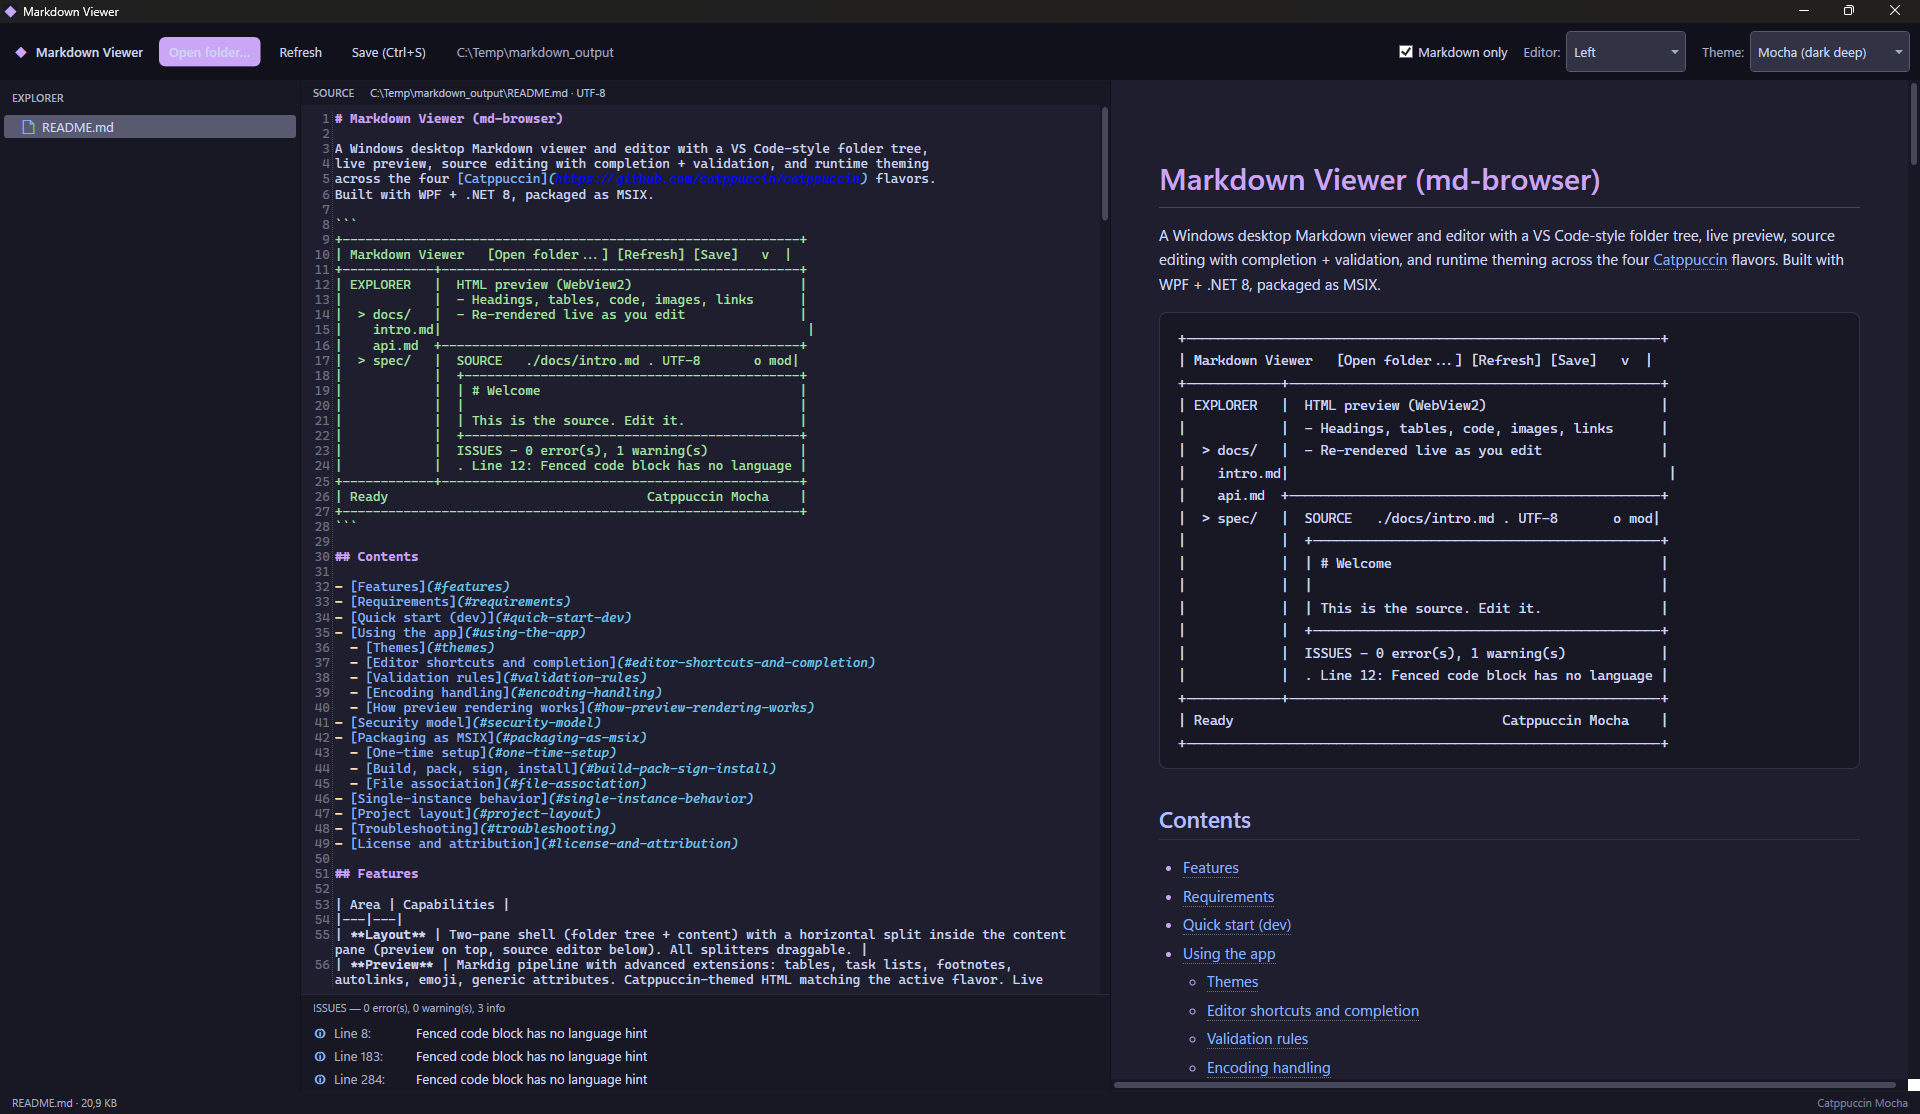
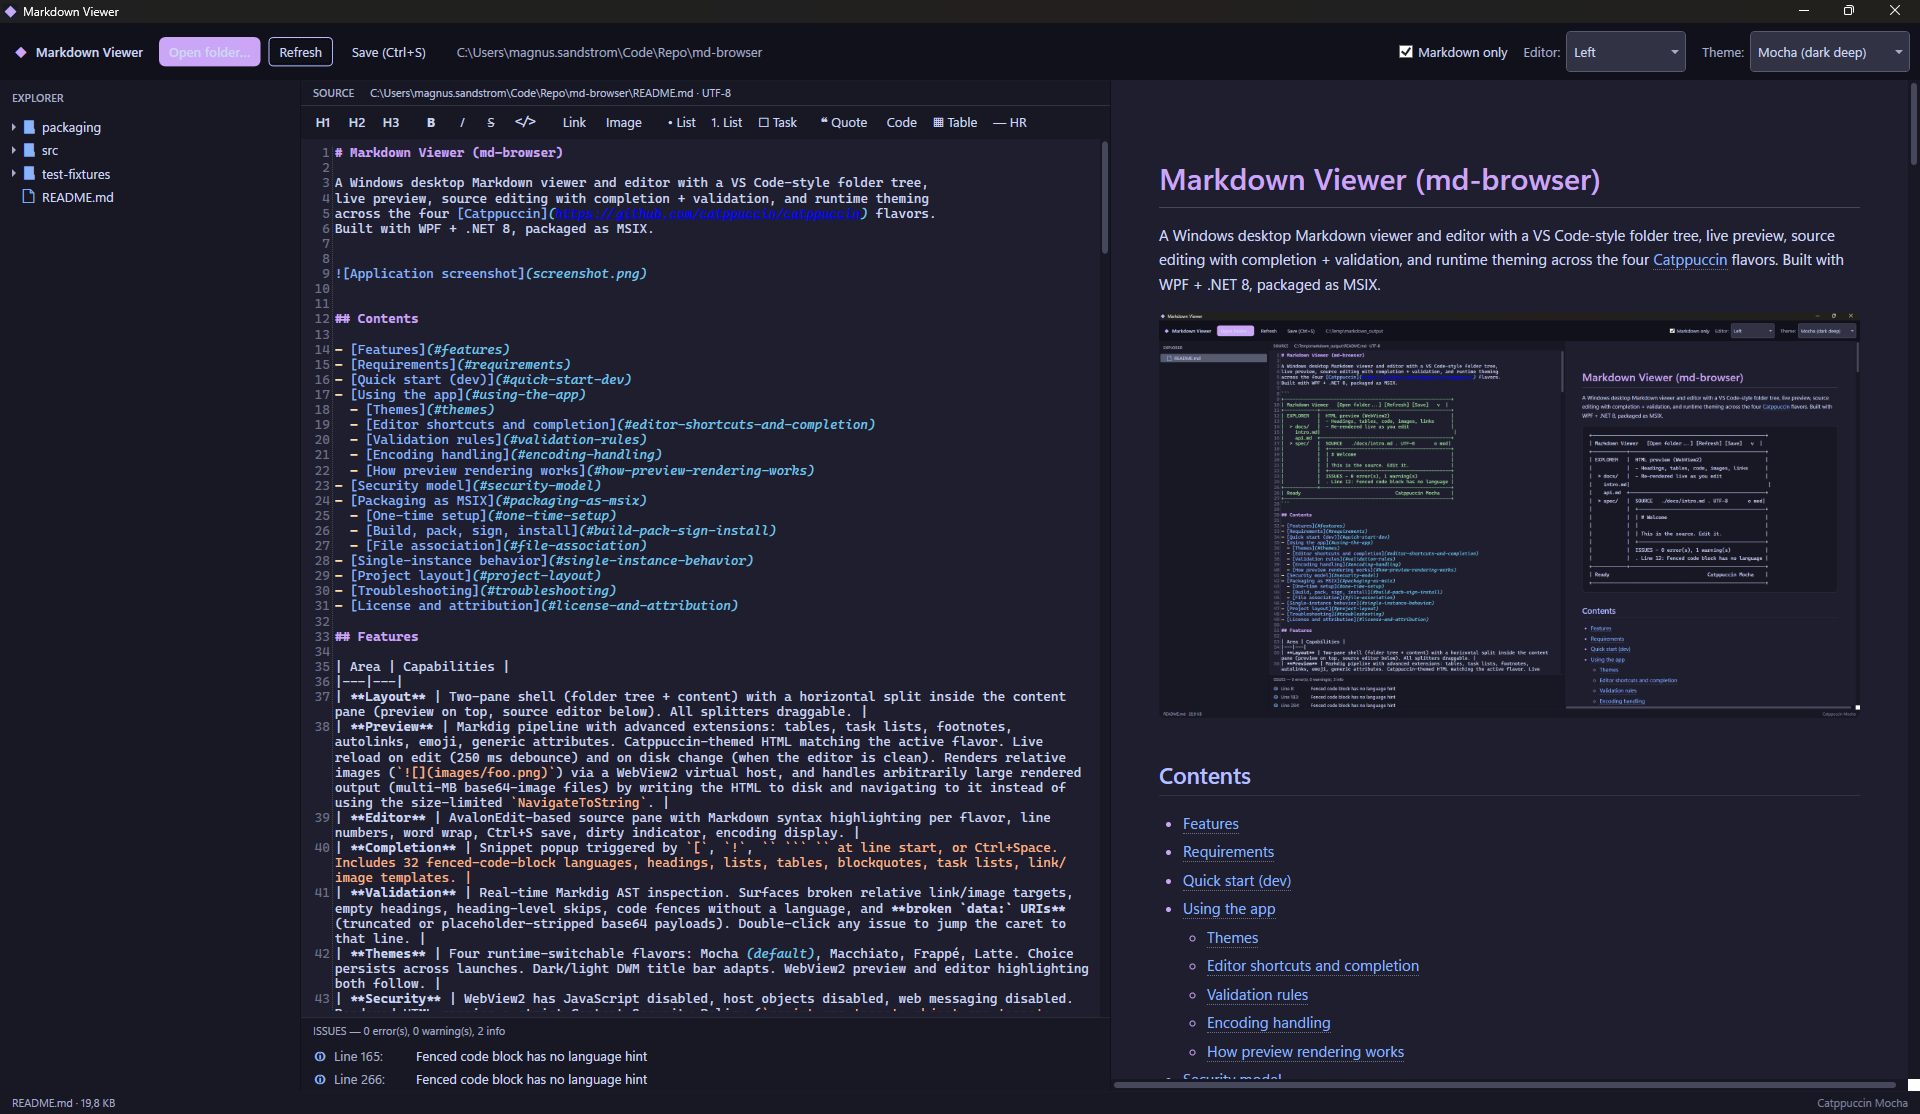
20260612

diff --git a/src/MdBrowser/MainWindow.xaml b/src/MdBrowser/MainWindow.xaml
@@ -216,6 +216,90 @@
                         </Grid>
                     </Border>
 
+                    <!-- Markdown formatting toolbar -->
+                    <Border DockPanel.Dock="Top"
+                            Background="{DynamicResource CtpMantle}"
+                            BorderBrush="{DynamicResource CtpSurface0}"
+                            BorderThickness="0,1,0,0"
+                            Padding="6,4">
+                        <WrapPanel x:Name="EditorToolbar"
+                                   IsEnabled="{Binding ElementName=Editor, Path=IsEnabled}">
+                            <!-- Headings -->
+                            <Button Style="{StaticResource ToolbarButton}" Padding="6,2" MinWidth="32" Margin="0,0,2,2"
+                                    Click="MdBtn_Heading1_Click" ToolTip="Heading 1">
+                                <TextBlock Text="H1" FontWeight="SemiBold"/>
+                            </Button>
+                            <Button Style="{StaticResource ToolbarButton}" Padding="6,2" MinWidth="32" Margin="0,0,2,2"
+                                    Click="MdBtn_Heading2_Click" ToolTip="Heading 2">
+                                <TextBlock Text="H2" FontWeight="SemiBold"/>
+                            </Button>
+                            <Button Style="{StaticResource ToolbarButton}" Padding="6,2" MinWidth="32" Margin="0,0,10,2"
+                                    Click="MdBtn_Heading3_Click" ToolTip="Heading 3">
+                                <TextBlock Text="H3" FontWeight="SemiBold"/>
+                            </Button>
+
+                            <!-- Inline formatting -->
+                            <Button Style="{StaticResource ToolbarButton}" Padding="8,2" MinWidth="28" Margin="0,0,2,2"
+                                    Click="MdBtn_Bold_Click" ToolTip="Bold (Ctrl+B)">
+                                <TextBlock Text="B" FontWeight="Bold"/>
+                            </Button>
+                            <Button Style="{StaticResource ToolbarButton}" Padding="8,2" MinWidth="28" Margin="0,0,2,2"
+                                    Click="MdBtn_Italic_Click" ToolTip="Italic (Ctrl+I)">
+                                <TextBlock Text="I" FontStyle="Italic"/>
+                            </Button>
+                            <Button Style="{StaticResource ToolbarButton}" Padding="8,2" MinWidth="28" Margin="0,0,2,2"
+                                    Click="MdBtn_Strike_Click" ToolTip="Strikethrough">
+                                <TextBlock Text="S" TextDecorations="Strikethrough"/>
+                            </Button>
+                            <Button Style="{StaticResource ToolbarButton}" Padding="6,2" MinWidth="32" Margin="0,0,10,2"
+                                    Click="MdBtn_InlineCode_Click" ToolTip="Inline code">
+                                <TextBlock Text="&lt;/&gt;" FontFamily="Cascadia Code, Consolas"/>
+                            </Button>
+
+                            <!-- Links / images -->
+                            <Button Style="{StaticResource ToolbarButton}" Padding="8,2" Margin="0,0,2,2"
+                                    Click="MdBtn_Link_Click" ToolTip="Insert link (Ctrl+K)">
+                                <TextBlock Text="Link"/>
+                            </Button>
+                            <Button Style="{StaticResource ToolbarButton}" Padding="8,2" Margin="0,0,10,2"
+                                    Click="MdBtn_Image_Click" ToolTip="Insert image…">
+                                <TextBlock Text="Image"/>
+                            </Button>
+
+                            <!-- Lists -->
+                            <Button Style="{StaticResource ToolbarButton}" Padding="6,2" Margin="0,0,2,2"
+                                    Click="MdBtn_BulletList_Click" ToolTip="Bullet list">
+                                <TextBlock Text="• List"/>
+                            </Button>
+                            <Button Style="{StaticResource ToolbarButton}" Padding="6,2" Margin="0,0,2,2"
+                                    Click="MdBtn_NumberedList_Click" ToolTip="Numbered list">
+                                <TextBlock Text="1. List"/>
+                            </Button>
+                            <Button Style="{StaticResource ToolbarButton}" Padding="6,2" Margin="0,0,10,2"
+                                    Click="MdBtn_TaskList_Click" ToolTip="Task list">
+                                <TextBlock Text="☐ Task"/>
+                            </Button>
+
+                            <!-- Blocks -->
+                            <Button Style="{StaticResource ToolbarButton}" Padding="6,2" Margin="0,0,2,2"
+                                    Click="MdBtn_Quote_Click" ToolTip="Block quote">
+                                <TextBlock Text="❝ Quote"/>
+                            </Button>
+                            <Button Style="{StaticResource ToolbarButton}" Padding="6,2" Margin="0,0,2,2"
+                                    Click="MdBtn_CodeBlock_Click" ToolTip="Fenced code block">
+                                <TextBlock Text="{} Code"/>
+                            </Button>
+                            <Button Style="{StaticResource ToolbarButton}" Padding="6,2" Margin="0,0,2,2"
+                                    Click="MdBtn_Table_Click" ToolTip="Insert table">
+                                <TextBlock Text="▦ Table"/>
+                            </Button>
+                            <Button Style="{StaticResource ToolbarButton}" Padding="6,2" Margin="0,0,2,2"
+                                    Click="MdBtn_HorizontalRule_Click" ToolTip="Horizontal rule">
+                                <TextBlock Text="— HR"/>
+                            </Button>
+                        </WrapPanel>
+                    </Border>
+
                     <!-- Issues panel (bottom) -->
                     <Border DockPanel.Dock="Bottom"
                             Background="{DynamicResource CtpMantle}"

diff --git a/src/MdBrowser/MainWindow.xaml.cs b/src/MdBrowser/MainWindow.xaml.cs
@@ -860,6 +860,243 @@ public partial class MainWindow : Window
         Editor.Focus();
     }
 
+    // ============== Markdown formatting toolbar ==============
+
+    private void MdBtn_Heading1_Click(object sender, RoutedEventArgs e) => SetCurrentLineHeading(1);
+    private void MdBtn_Heading2_Click(object sender, RoutedEventArgs e) => SetCurrentLineHeading(2);
+    private void MdBtn_Heading3_Click(object sender, RoutedEventArgs e) => SetCurrentLineHeading(3);
+    private void MdBtn_Bold_Click(object sender, RoutedEventArgs e) => WrapSelection("**", "**", "bold text");
+    private void MdBtn_Italic_Click(object sender, RoutedEventArgs e) => WrapSelection("*", "*", "italic text");
+    private void MdBtn_Strike_Click(object sender, RoutedEventArgs e) => WrapSelection("~~", "~~", "strikethrough");
+    private void MdBtn_InlineCode_Click(object sender, RoutedEventArgs e) => WrapSelection("`", "`", "code");
+    private void MdBtn_Link_Click(object sender, RoutedEventArgs e) => InsertLink();
+    private void MdBtn_Image_Click(object sender, RoutedEventArgs e) => InsertImage();
+    private void MdBtn_BulletList_Click(object sender, RoutedEventArgs e) => PrefixSelectedLines("- ");
+    private void MdBtn_NumberedList_Click(object sender, RoutedEventArgs e) => NumberSelectedLines();
+    private void MdBtn_TaskList_Click(object sender, RoutedEventArgs e) => PrefixSelectedLines("- [ ] ");
+    private void MdBtn_Quote_Click(object sender, RoutedEventArgs e) => PrefixSelectedLines("> ");
+    private void MdBtn_CodeBlock_Click(object sender, RoutedEventArgs e) => InsertCodeBlock();
+    private void MdBtn_Table_Click(object sender, RoutedEventArgs e) => InsertTable();
+    private void MdBtn_HorizontalRule_Click(object sender, RoutedEventArgs e) => InsertBlock("---");
+
+    private void WrapSelection(string prefix, string suffix, string placeholder)
+    {
+        if (!Editor.IsEnabled) return;
+        var doc = Editor.Document;
+        if (Editor.SelectionLength > 0)
+        {
+            var start = Editor.SelectionStart;
+            var len = Editor.SelectionLength;
+            var text = doc.GetText(start, len);
+            doc.Replace(start, len, prefix + text + suffix);
+            Editor.Select(start + prefix.Length, len);
+        }
+        else
+        {
+            var caret = Editor.CaretOffset;
+            doc.Insert(caret, prefix + placeholder + suffix);
+            Editor.Select(caret + prefix.Length, placeholder.Length);
+        }
+        Editor.Focus();
+    }
+
+    private void SetCurrentLineHeading(int level)
+    {
+        if (!Editor.IsEnabled) return;
+        var doc = Editor.Document;
+        var line = doc.GetLineByOffset(Editor.CaretOffset);
+        var lineText = doc.GetText(line);
+        // Strip any existing leading '#' run + one optional space - acts as a toggle/replace.
+        var trimmed = lineText.TrimStart('#');
+        if (trimmed.StartsWith(' ')) trimmed = trimmed[1..];
+        var prefix = new string('#', level) + " ";
+        doc.Replace(line.Offset, line.Length, prefix + trimmed);
+        Editor.CaretOffset = line.Offset + prefix.Length + trimmed.Length;
+        Editor.Focus();
+    }
+
+    private void PrefixSelectedLines(string prefix)
+    {
+        if (!Editor.IsEnabled) return;
+        var doc = Editor.Document;
+        var (startLine, endLine) = GetSelectedLineRange();
+        using (doc.RunUpdate())
+        {
+            for (int i = startLine; i <= endLine; i++)
+            {
+                var line = doc.GetLineByNumber(i);
+                doc.Insert(line.Offset, prefix);
+            }
+        }
+        Editor.Focus();
+    }
+
+    private void NumberSelectedLines()
+    {
+        if (!Editor.IsEnabled) return;
+        var doc = Editor.Document;
+        var (startLine, endLine) = GetSelectedLineRange();
+        using (doc.RunUpdate())
+        {
+            int n = 1;
+            for (int i = startLine; i <= endLine; i++)
+            {
+                var line = doc.GetLineByNumber(i);
+                doc.Insert(line.Offset, $"{n}. ");
+                n++;
+            }
+        }
+        Editor.Focus();
+    }
+
+    private (int startLine, int endLine) GetSelectedLineRange()
+    {
+        var doc = Editor.Document;
+        if (Editor.SelectionLength > 0)
+        {
+            var s = doc.GetLineByOffset(Editor.SelectionStart).LineNumber;
+            var e = doc.GetLineByOffset(Editor.SelectionStart + Editor.SelectionLength).LineNumber;
+            return (s, e);
+        }
+        var current = doc.GetLineByOffset(Editor.CaretOffset).LineNumber;
+        return (current, current);
+    }
+
+    private void InsertLink()
+    {
+        if (!Editor.IsEnabled) return;
+        var doc = Editor.Document;
+        var selText = Editor.SelectedText ?? string.Empty;
+        var selectionLooksLikeUrl =
+            selText.StartsWith("http://", StringComparison.OrdinalIgnoreCase) ||
+            selText.StartsWith("https://", StringComparison.OrdinalIgnoreCase);
+
+        string textPart, urlPart;
+        if (selectionLooksLikeUrl) { textPart = "link text"; urlPart = selText; }
+        else if (!string.IsNullOrEmpty(selText)) { textPart = selText; urlPart = "https://"; }
+        else { textPart = "link text"; urlPart = "https://"; }
+
+        var snippet = $"[{textPart}]({urlPart})";
+        int insertAt;
+        if (Editor.SelectionLength > 0)
+        {
+            insertAt = Editor.SelectionStart;
+            doc.Replace(insertAt, Editor.SelectionLength, snippet);
+        }
+        else
+        {
+            insertAt = Editor.CaretOffset;
+            doc.Insert(insertAt, snippet);
+        }
+
+        // Select whichever part the user is most likely to edit next.
+        if (selectionLooksLikeUrl)
+        {
+            Editor.Select(insertAt + 1, textPart.Length); // text part
+        }
+        else if (!string.IsNullOrEmpty(selText))
+        {
+            var urlStart = insertAt + 1 + textPart.Length + 2; // skip "[text]("
+            Editor.Select(urlStart, urlPart.Length);
+        }
+        else
+        {
+            Editor.Select(insertAt + 1, textPart.Length);
+        }
+        Editor.Focus();
+    }
+
+    private void InsertImage()
+    {
+        if (!Editor.IsEnabled) return;
+        var dlg = new OpenFileDialog
+        {
+            Title = "Insert image",
+            Filter = "Image files|*.png;*.jpg;*.jpeg;*.gif;*.webp;*.svg;*.bmp|All files|*.*",
+            Multiselect = false
+        };
+        if (_currentFile is not null)
+        {
+            var dir = Path.GetDirectoryName(_currentFile);
+            if (!string.IsNullOrEmpty(dir)) dlg.InitialDirectory = dir;
+        }
+        if (dlg.ShowDialog(this) != true) return;
+        var picked = dlg.FileName;
+
+        // Prefer a path relative to the current markdown file so the link survives a move.
+        string href = picked;
+        var srcDir = _currentFile is not null ? Path.GetDirectoryName(_currentFile) : null;
+        if (!string.IsNullOrEmpty(srcDir))
+        {
+            try
+            {
+                href = Path.GetRelativePath(srcDir, picked).Replace(Path.DirectorySeparatorChar, '/');
+            }
+            catch { /* fall back to the absolute path */ }
+        }
+
+        var alt = Path.GetFileNameWithoutExtension(picked);
+        var snippet = $"![{alt}]({href})";
+
+        int insertAt = Editor.CaretOffset;
+        if (Editor.SelectionLength > 0)
+        {
+            insertAt = Editor.SelectionStart;
+            Editor.Document.Replace(insertAt, Editor.SelectionLength, snippet);
+        }
+        else
+        {
+            Editor.Document.Insert(insertAt, snippet);
+        }
+        Editor.Select(insertAt + 2, alt.Length); // pre-select the alt text for quick edit
+        Editor.Focus();
+    }
+
+    private void InsertCodeBlock()
+    {
+        // Cursor lands on the empty line inside the fence.
+        InsertBlock("```\n\n```", caretOffsetWithinBlock: 4);
+    }
+
+    private void InsertTable()
+    {
+        var table =
+            "| Column 1 | Column 2 | Column 3 |\n" +
+            "|----------|----------|----------|\n" +
+            "| Cell     | Cell     | Cell     |";
+        InsertBlock(table);
+    }
+
+    /// <summary>
+    /// Insert a multi-line block at the caret. If the caret's line is empty the block
+    /// replaces it; otherwise the block is appended after the current line with blank
+    /// lines around it so it parses as its own markdown block.
+    /// </summary>
+    private void InsertBlock(string text, int? caretOffsetWithinBlock = null)
+    {
+        if (!Editor.IsEnabled) return;
+        var doc = Editor.Document;
+        var caret = Editor.CaretOffset;
+        var line = doc.GetLineByOffset(caret);
+        var lineText = doc.GetText(line);
+        var lineIsEmpty = string.IsNullOrWhiteSpace(lineText);
+
+        int finalCaret;
+        if (lineIsEmpty)
+        {
+            doc.Replace(line.Offset, line.Length, text);
+            finalCaret = line.Offset + (caretOffsetWithinBlock ?? text.Length);
+        }
+        else
+        {
+            var inserted = "\n\n" + text + "\n";
+            doc.Insert(line.EndOffset, inserted);
+            finalCaret = line.EndOffset + 2 + (caretOffsetWithinBlock ?? text.Length);
+        }
+        Editor.CaretOffset = Math.Min(finalCaret, doc.TextLength);
+        Editor.Focus();
+    }
+
     private sealed record ThemeOption(CatppuccinFlavor Flavor, string Label);
     private sealed record EditorLayoutOption(EditorPosition Position, string Label);
 }